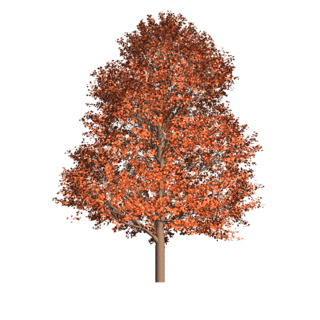
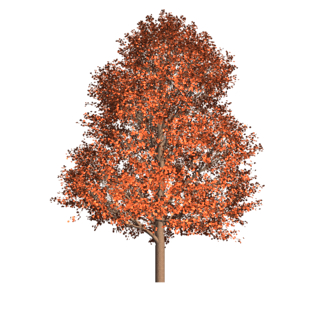
Checkpoint.

Changed region(s): [[0.1562, 0.0312, 0.8438, 0.7812]]

diff --git a/TreeCreator/PlantSimulationSystem.cpp b/TreeCreator/PlantSimulationSystem.cpp
@@ -553,19 +553,10 @@ void PlantSimulationSystem::TreeParameterExportHelper(std::ofstream& ofs, TreePa
 }
 #pragma endregion
 #pragma region Growth
-Entity PlantSimulationSystem::CreateTree(std::shared_ptr<Material> treeLeafMaterial, std::shared_ptr<Mesh> treeLeafMesh,
-	TreeParameters treeParameters, glm::vec3 position, bool enabled)
-{
-	auto mat = std::make_shared<Material>();
-	mat->SetTexture(_DefaultTreeSurfaceTex1, TextureType::DIFFUSE);
-	mat->SetTexture(_DefaultTreeSurfaceNTex1, TextureType::NORMAL);
-	mat->SetTexture(_DefaultTreeSurfaceSTex1, TextureType::SPECULAR);
-	return CreateTree(mat, treeLeafMaterial, treeLeafMesh, treeParameters, position, enabled);
-}
 
-Entity TreeUtilities::PlantSimulationSystem::CreateTree(std::shared_ptr<Material> treeSurfaceMaterial, std::shared_ptr<Material> treeLeafMaterial, std::shared_ptr<Mesh> treeLeafMesh, TreeParameters treeParameters, glm::vec3 position, bool enabled)
+Entity TreeUtilities::PlantSimulationSystem::CreateTree(std::shared_ptr<Material> treeSurfaceMaterial, TreeParameters treeParameters, glm::vec3 position, bool enabled)
 {
-	auto treeEntity = TreeManager::CreateTree(treeSurfaceMaterial, treeLeafMaterial, treeLeafMesh);
+	auto treeEntity = TreeManager::CreateTree(std::move(treeSurfaceMaterial));
 	Entity internode = TreeManager::CreateInternode(EntityManager::GetComponentData<TreeIndex>(treeEntity), treeEntity);
 #pragma region Position & Style
 
@@ -616,7 +607,11 @@ Entity TreeUtilities::PlantSimulationSystem::CreateTree(std::shared_ptr<Material
 
 Entity PlantSimulationSystem::CreateTree(TreeParameters parameters, glm::vec3 position, bool enabled)
 {
-	return CreateTree(_DefaultTreeLeafMaterial1, _DefaultTreeLeafMesh, parameters, position, enabled);
+	auto mat = std::make_shared<Material>();
+	mat->SetTexture(_DefaultTreeSurfaceTex1, TextureType::DIFFUSE);
+	mat->SetTexture(_DefaultTreeSurfaceNTex1, TextureType::NORMAL);
+	mat->SetTexture(_DefaultTreeSurfaceSTex1, TextureType::SPECULAR);
+	return CreateTree(mat, parameters, position, enabled);
 }
 
 bool TreeUtilities::PlantSimulationSystem::GrowShoots(Entity& internode, std::unique_ptr<TreeVolume>& treeVolume, std::unique_ptr<TreeData>& treeData, TreeAge& treeAge, TreeParameters& treeParameters, TreeIndex& treeIndex, glm::mat4& treeTransform)
@@ -1226,7 +1221,7 @@ void TreeUtilities::PlantSimulationSystem::UpdateLocalTransform(Entity& internod
 
 	EntityManager::SetComponentData(internode, internodeInfo);
 }
-void TreeUtilities::PlantSimulationSystem::UpdateInternodeResource(Entity& internode, TreeParameters& treeParameters, TreeAge& treeAge, glm::mat4& treeTransform, std::vector<glm::mat4>& leafTransforms, bool isLeft)
+void TreeUtilities::PlantSimulationSystem::UpdateInternodeResource(Entity& internode, TreeParameters& treeParameters, TreeAge& treeAge, glm::mat4& treeTransform,  bool isLeft)
 {
 	InternodeInfo internodeInfo = EntityManager::GetComponentData<InternodeInfo>(internode);
 	Illumination internodeIllumination = EntityManager::GetComponentData<Illumination>(internode);
@@ -1236,9 +1231,9 @@ void TreeUtilities::PlantSimulationSystem::UpdateInternodeResource(Entity& inter
 
 
 
-	EntityManager::ForEachChild(internode, [this, &internodeInfo, &treeParameters, &treeAge, &leafTransforms, &treeTransform, isLeft](Entity child)
+	EntityManager::ForEachChild(internode, [this, &internodeInfo, &treeParameters, &treeAge, &treeTransform, isLeft](Entity child)
 		{
-			UpdateInternodeResource(child, treeParameters, treeAge, treeTransform, leafTransforms, !isLeft);
+			UpdateInternodeResource(child, treeParameters, treeAge, treeTransform, !isLeft);
 			InternodeInfo childNodeInfo = EntityManager::GetComponentData<InternodeInfo>(child);
 			internodeInfo.AccumulatedLight += childNodeInfo.AccumulatedLight;
 			internodeInfo.AccumulatedLength += childNodeInfo.AccumulatedLength;
@@ -1382,10 +1377,7 @@ void PlantSimulationSystem::RefreshTrees()
 		auto treeAge = EntityManager::GetComponentData<TreeAge>(treeEntity);
 		auto treeParameters = EntityManager::GetComponentData<TreeParameters>(treeEntity);
 		auto treeLocalToWorld = EntityManager::GetComponentData<LocalToWorld>(treeEntity);
-		auto particleSystem = EntityManager::GetPrivateComponent<Particles>(treeEntity);
-		particleSystem->get()->Matrices.clear();
-		UpdateInternodeResource(rootInternode, treeParameters, treeAge, treeLocalToWorld.Value, particleSystem->get()->Matrices, true);
-		particleSystem->get()->RecalculateBoundingBox();
+		UpdateInternodeResource(rootInternode, treeParameters, treeAge, treeLocalToWorld.Value, true);
 		EvaluatePruning(rootInternode, treeParameters, treeAge, treeInfo);
 		if (_EnableDirectionPruning) EvaluateDirectionPruning(rootInternode, glm::normalize(glm::vec3(treeLocalToWorld.Value[3])), _DirectionPruningLimitAngle);
 	}
@@ -1420,47 +1412,6 @@ void TreeUtilities::PlantSimulationSystem::OnCreate()
 	_DefaultTreeSurfaceSTex1 = AssetManager::LoadTexture(FileIO::GetResourcePath("Textures/BarkMaterial/Aspen_bark_001_SPEC.jpg"));
 	_DefaultTreeSurfaceTex2 = AssetManager::LoadTexture(FileIO::GetResourcePath("Textures/BarkMaterial/Aspen_bark_001_COLOR.jpg"));
 	_DefaultTreeSurfaceNTex2 = AssetManager::LoadTexture(FileIO::GetResourcePath("Textures/BarkMaterial/Aspen_bark_001_NORM.jpg"));
-
-	_DefaultTreeLeafMaterial1 = std::make_shared<Material>();
-	_DefaultTreeLeafMaterial1->SetTransparentDiscard(true);
-	_DefaultTreeLeafMaterial1->SetTransparentDiscardLimit(0.1f);
-
-	_DefaultTreeLeafMaterial1->SetMaterialProperty("material.shininess", 32.0f);
-	_DefaultTreeLeafMaterial1->SetProgram(Default::GLPrograms::StandardInstancedProgram);
-	auto textureDiffuseLeaf1 = AssetManager::LoadTexture(FileIO::GetResourcePath("Textures/Leaf/PrunusAvium/A/level0.png"));
-	//textureDiffuseLeaf1->LoadTexture(FileIO::GetResourcePath("Textures/green.png"), "");
-	auto textureNormalLeaf1 = AssetManager::LoadTexture(FileIO::GetResourcePath("Textures/BarkMaterial/Aspen_bark_001_NORM.jpg"));
-	_DefaultTreeLeafMaterial1->SetTexture(textureDiffuseLeaf1, TextureType::DIFFUSE);
-	//_DefaultTreeLeafMaterial1->Textures2Ds()->push_back(textureNormalLeaf1, TextureType::NORMAL);
-
-	std::vector<Vertex> leafVertices;
-	std::vector<unsigned> leafIndices;
-	Vertex v;
-	v.Position = glm::vec3(-1, 0, 0);
-	v.TexCoords0 = glm::vec2(0, 0);
-	leafVertices.push_back(v);
-	v.Position = glm::vec3(-1, 0, -2);
-	v.TexCoords0 = glm::vec2(0, 1);
-	leafVertices.push_back(v);
-	v.Position = glm::vec3(1, 0, 0);
-	v.TexCoords0 = glm::vec2(1, 0);
-	leafVertices.push_back(v);
-	v.Position = glm::vec3(1, 0, -2);
-	v.TexCoords0 = glm::vec2(1, 1);
-	leafVertices.push_back(v);
-
-	leafIndices.push_back(0);
-	leafIndices.push_back(1);
-	leafIndices.push_back(2);
-
-	leafIndices.push_back(3);
-	leafIndices.push_back(2);
-	leafIndices.push_back(1);
-	_DefaultTreeLeafMesh = std::make_shared<Mesh>();
-	_DefaultTreeLeafMesh->SetVertices((unsigned)VertexAttribute::Position | (unsigned)VertexAttribute::TexCoord0,
-		leafVertices, leafIndices);
-
-	//_DefaultTreeLeafMesh = Default::Primitives::Quad;
 
 	_NewTreeParameters.resize(1);
 	LoadDefaultTreeParameters(1, _NewTreeParameters[_CurrentFocusedNewTreeIndex]);
@@ -1515,7 +1466,7 @@ void PlantSimulationSystem::CreateDefaultTree()
 {
 	TreeParameters tps;
 	LoadDefaultTreeParameters(1, tps);
-	CreateTree(_DefaultTreeLeafMaterial1, _DefaultTreeLeafMesh, tps, glm::vec3(0.0f), true);
+	CreateTree(tps, glm::vec3(0.0f), true);
 }
 void TreeUtilities::PlantSimulationSystem::LoadDefaultTreeParameters(int preset, TreeParameters& tps)
 {
@@ -1997,7 +1948,7 @@ inline void TreeUtilities::PlantSimulationSystem::OnGui()
 				if (ImGui::Button("OK", ImVec2(120, 0))) {
 					//Create tree here.
 					for (auto i = 0; i < _NewTreeAmount; i++) {
-						CreateTree(_DefaultTreeLeafMaterial1, _DefaultTreeLeafMesh, _NewTreeParameters[i], _NewTreePositions[i], true);
+						CreateTree(_NewTreeParameters[i], _NewTreePositions[i], true);
 					}
 					ImGui::CloseCurrentPopup();
 				}

diff --git a/TreeCreator/PlantSimulationSystem.h b/TreeCreator/PlantSimulationSystem.h
@@ -38,11 +38,6 @@ namespace TreeUtilities {
 		std::shared_ptr<Texture2D> _DefaultTreeSurfaceTex2;
 		std::shared_ptr<Texture2D> _DefaultTreeSurfaceNTex2;
 		std::shared_ptr<Material> _DefaultConvexHullSurfaceMaterial;
-		std::shared_ptr<Material> _DefaultTreeLeafMaterial1;
-		std::shared_ptr<Material> _DefaultTreeLeafMaterial2;
-
-		std::shared_ptr<Mesh> _DefaultTreeLeafMesh;
-
 		
 #pragma endregion
 		InternodeSystem* _InternodeSystem = nullptr;
@@ -56,7 +51,7 @@ namespace TreeUtilities {
 		void UpdateDistanceToBranchEnd(Entity& internode, TreeParameters& treeParameters, int treeAge);
 		void UpdateDistanceToBranchStart(Entity& internode);
 		void UpdateLocalTransform(Entity& internode, TreeParameters& treeParameters, glm::mat4& parentLTW, glm::mat4& treeLTW);
-		void UpdateInternodeResource(Entity& internode, TreeParameters& treeParameters, TreeAge& treeAge, glm::mat4& treeTransform, std::vector<glm::mat4>& leafTransforms, bool isLeft);
+		void UpdateInternodeResource(Entity& internode, TreeParameters& treeParameters, TreeAge& treeAge, glm::mat4& treeTransform, bool isLeft);
 		bool GrowShoots(Entity& internode, std::unique_ptr<TreeVolume>& treeVolume, std::unique_ptr<TreeData>& treeData, TreeAge& treeAge, TreeParameters& treeParameters, TreeIndex& treeIndex, glm::mat4& treeTransform);
 		void EvaluatePruning(Entity& internode, TreeParameters& treeParameters, TreeAge& treeAge, TreeInfo& treeInfo);
 		bool EvaluateRemoval(Entity& internode, TreeParameters& treeParameters, bool& anyRemoved);
@@ -85,8 +80,7 @@ namespace TreeUtilities {
 		void OnDestroy() override;
 		void Update() override;
 		void FixedUpdate() override;
-		Entity CreateTree(std::shared_ptr<Material> treeLeafMaterial, std::shared_ptr<Mesh> treeLeafMesh, TreeParameters treeParameters, glm::vec3 position, bool enabled);
-		Entity CreateTree(std::shared_ptr<Material> treeSurfaceMaterial, std::shared_ptr<Material> treeLeafMaterial, std::shared_ptr<Mesh> treeLeafMesh, TreeParameters parameters, glm::vec3 position, bool enabled = true);
+		Entity CreateTree(std::shared_ptr<Material> treeSurfaceMaterial, TreeParameters parameters, glm::vec3 position, bool enabled = true);
 		Entity CreateTree(TreeParameters parameters, glm::vec3 position, bool enabled = true);
 		void CreateDefaultTree();
 	};

diff --git a/TreeCreator/AppleFoliageGenerator.cpp b/TreeCreator/AppleFoliageGenerator.cpp
@@ -1,8 +1,5 @@
 #include "AppleFoliageGenerator.h"
-
-
 #include "PlantSimulationSystem.h"
-#include "TreeManager.h"
 
 void TreeUtilities::AppleFoliageGenerator::GenerateLeaves(Entity& internode, glm::mat4& treeTransform,
                                                           std::vector<glm::mat4>& leafTransforms, bool isLeft)
@@ -77,14 +74,14 @@ void TreeUtilities::AppleFoliageGenerator::GenerateLeaves(Entity& internode, glm
 AppleFoliageGenerator::AppleFoliageGenerator()
 {
 	_DefaultFoliageInfo = AppleFoliageInfo();
-	_Archetype = EntityManager::CreateEntityArchetype("Pine Foliage", LocalToParent(), LocalToWorld(), TreeIndex(), AppleFoliageInfo());
+	_Archetype = EntityManager::CreateEntityArchetype("Apple Foliage", LocalToParent(), LocalToWorld(), TreeIndex(), AppleFoliageInfo());
 
 	_LeafMaterial = std::make_shared<Material>();
 	_LeafMaterial->SetMaterialProperty("material.shininess", 32.0f);
 	_LeafMaterial->SetProgram(Default::GLPrograms::StandardInstancedProgram);
 	_LeafMaterial->SetTransparentDiscard(true);
 	_LeafMaterial->SetTransparentDiscardLimit(0.1f);
-	_LeafSurfaceTex = AssetManager::LoadTexture("../Resources/Textures/Leaf/Pine/level0.png");
+	_LeafSurfaceTex = AssetManager::LoadTexture("../Resources/Textures/Leaf/PrunusAvium/A/level0.png");
 	_LeafMaterial->SetTexture(_LeafSurfaceTex, TextureType::DIFFUSE);
 }
 

diff --git a/TreeCreator/TreeManager.cpp b/TreeCreator/TreeManager.cpp
@@ -26,8 +26,6 @@ bool TreeUtilities::TreeManager::_Ready;
 
 void InternodeData::OnGui()
 {
-	ImGui::Text(("Leaf count: " + std::to_string(LeafLocalTransforms.size())).c_str());
-	ImGui::Separator();
 	for(int i = 0; i < Buds.size(); i++)
 	{
 		ImGui::Text(("Bud " + std::to_string(i)).c_str());
@@ -491,15 +489,9 @@ void TreeUtilities::TreeManager::CalculateInternodeIllumination()
 }
 
 
-Entity TreeUtilities::TreeManager::CreateTree(std::shared_ptr<Material> treeSurfaceMaterial, std::shared_ptr<Material> treeLeafMaterial, std::shared_ptr<Mesh> treeLeafMesh)
+Entity TreeUtilities::TreeManager::CreateTree(std::shared_ptr<Material> treeSurfaceMaterial)
 {
 	const auto entity = EntityManager::CreateEntity(_TreeArchetype);
-	auto particleSystem = std::make_unique<Particles>();
-	particleSystem->Matrices.clear();
-	particleSystem->Material = std::move(treeLeafMaterial);
-	particleSystem->Mesh = std::move(treeLeafMesh);
-	particleSystem->BackCulling = false;
-	EntityManager::SetPrivateComponent(entity, std::move(particleSystem));
 	EntityManager::SetPrivateComponent(entity, std::move(std::make_unique<TreeData>()));
 	EntityManager::SetPrivateComponent(entity, std::move(std::make_unique<TreeVolume>()));
 	EntityManager::SetComponentData(entity, _TreeIndex);

diff --git a/TreeCreator/BirchFoliageGenerator.cpp b/TreeCreator/BirchFoliageGenerator.cpp
@@ -77,14 +77,14 @@ TreeUtilities::BirchFoliageGenerator::BirchFoliageGenerator()
 
 {
 	_DefaultFoliageInfo = BirchFoliageInfo();
-	_Archetype = EntityManager::CreateEntityArchetype("Pine Foliage", LocalToParent(), LocalToWorld(), TreeIndex(), BirchFoliageInfo());
+	_Archetype = EntityManager::CreateEntityArchetype("Birch Foliage", LocalToParent(), LocalToWorld(), TreeIndex(), BirchFoliageInfo());
 
 	_LeafMaterial = std::make_shared<Material>();
 	_LeafMaterial->SetMaterialProperty("material.shininess", 32.0f);
 	_LeafMaterial->SetProgram(Default::GLPrograms::StandardInstancedProgram);
 	_LeafMaterial->SetTransparentDiscard(true);
 	_LeafMaterial->SetTransparentDiscardLimit(0.1f);
-	_LeafSurfaceTex = AssetManager::LoadTexture("../Resources/Textures/Leaf/Pine/level0.png");
+	_LeafSurfaceTex = AssetManager::LoadTexture("../Resources/Textures/Leaf/PrunusAvium/A/level0.png");
 	_LeafMaterial->SetTexture(_LeafSurfaceTex, TextureType::DIFFUSE);
 }
 

diff --git a/TreeCreator/OakFoliageGenerator.cpp b/TreeCreator/OakFoliageGenerator.cpp
@@ -77,14 +77,14 @@ TreeUtilities::OakFoliageGenerator::OakFoliageGenerator()
 
 {
 	_DefaultFoliageInfo = OakFoliageInfo();
-	_Archetype = EntityManager::CreateEntityArchetype("Pine Foliage", LocalToParent(), LocalToWorld(), TreeIndex(), OakFoliageInfo());
+	_Archetype = EntityManager::CreateEntityArchetype("Oak Foliage", LocalToParent(), LocalToWorld(), TreeIndex(), OakFoliageInfo());
 
 	_LeafMaterial = std::make_shared<Material>();
 	_LeafMaterial->SetMaterialProperty("material.shininess", 32.0f);
 	_LeafMaterial->SetProgram(Default::GLPrograms::StandardInstancedProgram);
 	_LeafMaterial->SetTransparentDiscard(true);
 	_LeafMaterial->SetTransparentDiscardLimit(0.1f);
-	_LeafSurfaceTex = AssetManager::LoadTexture("../Resources/Textures/Leaf/Pine/level0.png");
+	_LeafSurfaceTex = AssetManager::LoadTexture("../Resources/Textures/Leaf/PrunusAvium/A/level0.png");
 	_LeafMaterial->SetTexture(_LeafSurfaceTex, TextureType::DIFFUSE);
 }
 

diff --git a/TreeCreator/TreeManager.h b/TreeCreator/TreeManager.h
@@ -44,7 +44,6 @@ namespace TreeUtilities {
 	public:
 		std::vector<Bud> Buds;
 		std::vector<InternodeRingSegment> Rings;
-		std::vector<glm::mat4> LeafLocalTransforms;
 		glm::vec3 NormalDir;
 		int step;
 		void OnGui() override;
@@ -317,7 +316,7 @@ namespace TreeUtilities {
 		static std::shared_ptr<Mesh> GetMeshForTree(Entity treeEntity);
 		static void GenerateSimpleMeshForTree(Entity treeEntity, float resolution, float subdivision = 1.0f);
 		static void DeleteAllTrees();
-		static Entity CreateTree(std::shared_ptr<Material> treeSurfaceMaterial, std::shared_ptr<Material> treeLeafMaterial, std::shared_ptr<Mesh> treeLeafMesh);
+		static Entity CreateTree(std::shared_ptr<Material> treeSurfaceMaterial);
 		static Entity CreateInternode(TreeIndex treeIndex, Entity parentEntity);
 
 		static void ExportMeshToOBJ(Entity treeEntity, std::string filename);

diff --git a/TreeCreator/FoliageGeneratorBase.h b/TreeCreator/FoliageGeneratorBase.h
@@ -1,7 +1,6 @@
 #pragma once
 #include "InternodeRingSegment.h"
 #include "UniEngine.h"
-#include "pugixml/pugixml.hpp"
 using namespace UniEngine;
 namespace TreeUtilities {
 	struct TreeParameters;
